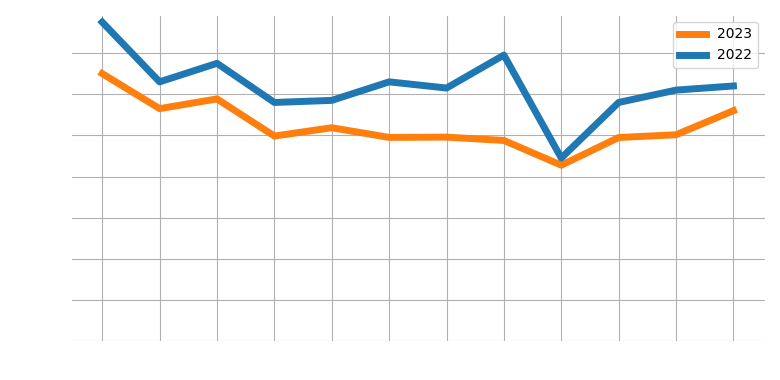
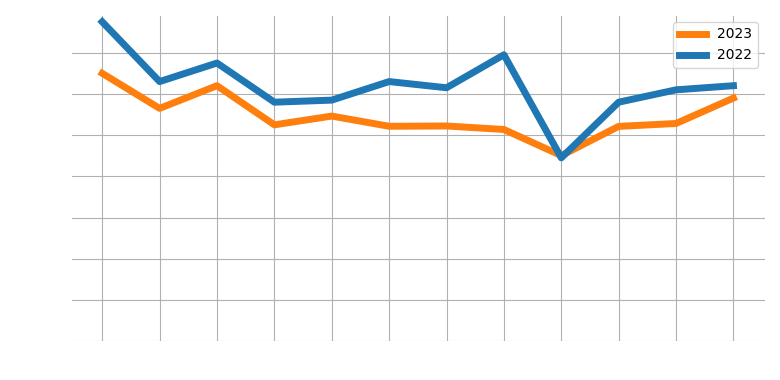
Deels maart 2023

diff --git a/energieverbruik.py b/energieverbruik.py
@@ -40,18 +40,17 @@ VORIG_JAAR = HUIDIG_JAAR - 1
 #
 # INVOEREN GEGEVENS HUIDIGE JAAR
 #
-MAAND = Month.feb
-DAG_VAN_MAAND = 28
-DAGEN_IN_MAAND = 28
-VERBRUIK_GAS = 162
-VERBRUIK_ELEKTRICITEIT = 113
-VERBRUIK_WATER = 9
-PRIJS_GAS = 1.63326
-PRIJS_ELEKTRICITEIT = 0.53264
+MAAND = Month.mrt
+DAG_VAN_MAAND = 21
+DAGEN_IN_MAAND = 31
+VERBRUIK_GAS = 124
+VERBRUIK_ELEKTRICITEIT = 84
+VERBRUIK_WATER = 6
+PRIJS_GAS = 1.39006
+PRIJS_ELEKTRICITEIT = 0.39802
 PRIJS_WATER = 1.021
-VAST_LEVERING_GAS_JAAR = 71.39
-VAST_LEVERING_ELE_JAAR = 71.39
-VAST_LEVERING_DAG = 0.19559
+VAST_LEVERING_GAS_JAAR = 83.49
+VAST_LEVERING_ELE_JAAR = 83.49
 
 # Inlezen data graaddagen, verbruik voorgaande jaar en afgeronde maanden
 df = pd.read_csv('energiedata.csv')
@@ -210,8 +209,7 @@ verschWat = (schatTotWat - sumVerbrWatVrgJr)
 maandbedrag = int((((schatTotGas * PRIJS_GAS)
                     + (schatTotEle * PRIJS_ELEKTRICITEIT)
                     + VAST_LEVERING_GAS_JAAR
-                    + VAST_LEVERING_ELE_JAAR
-                    + (2 * (VAST_LEVERING_DAG * 365)))/12))
+                    + VAST_LEVERING_ELE_JAAR)/12))
 
 
 #
